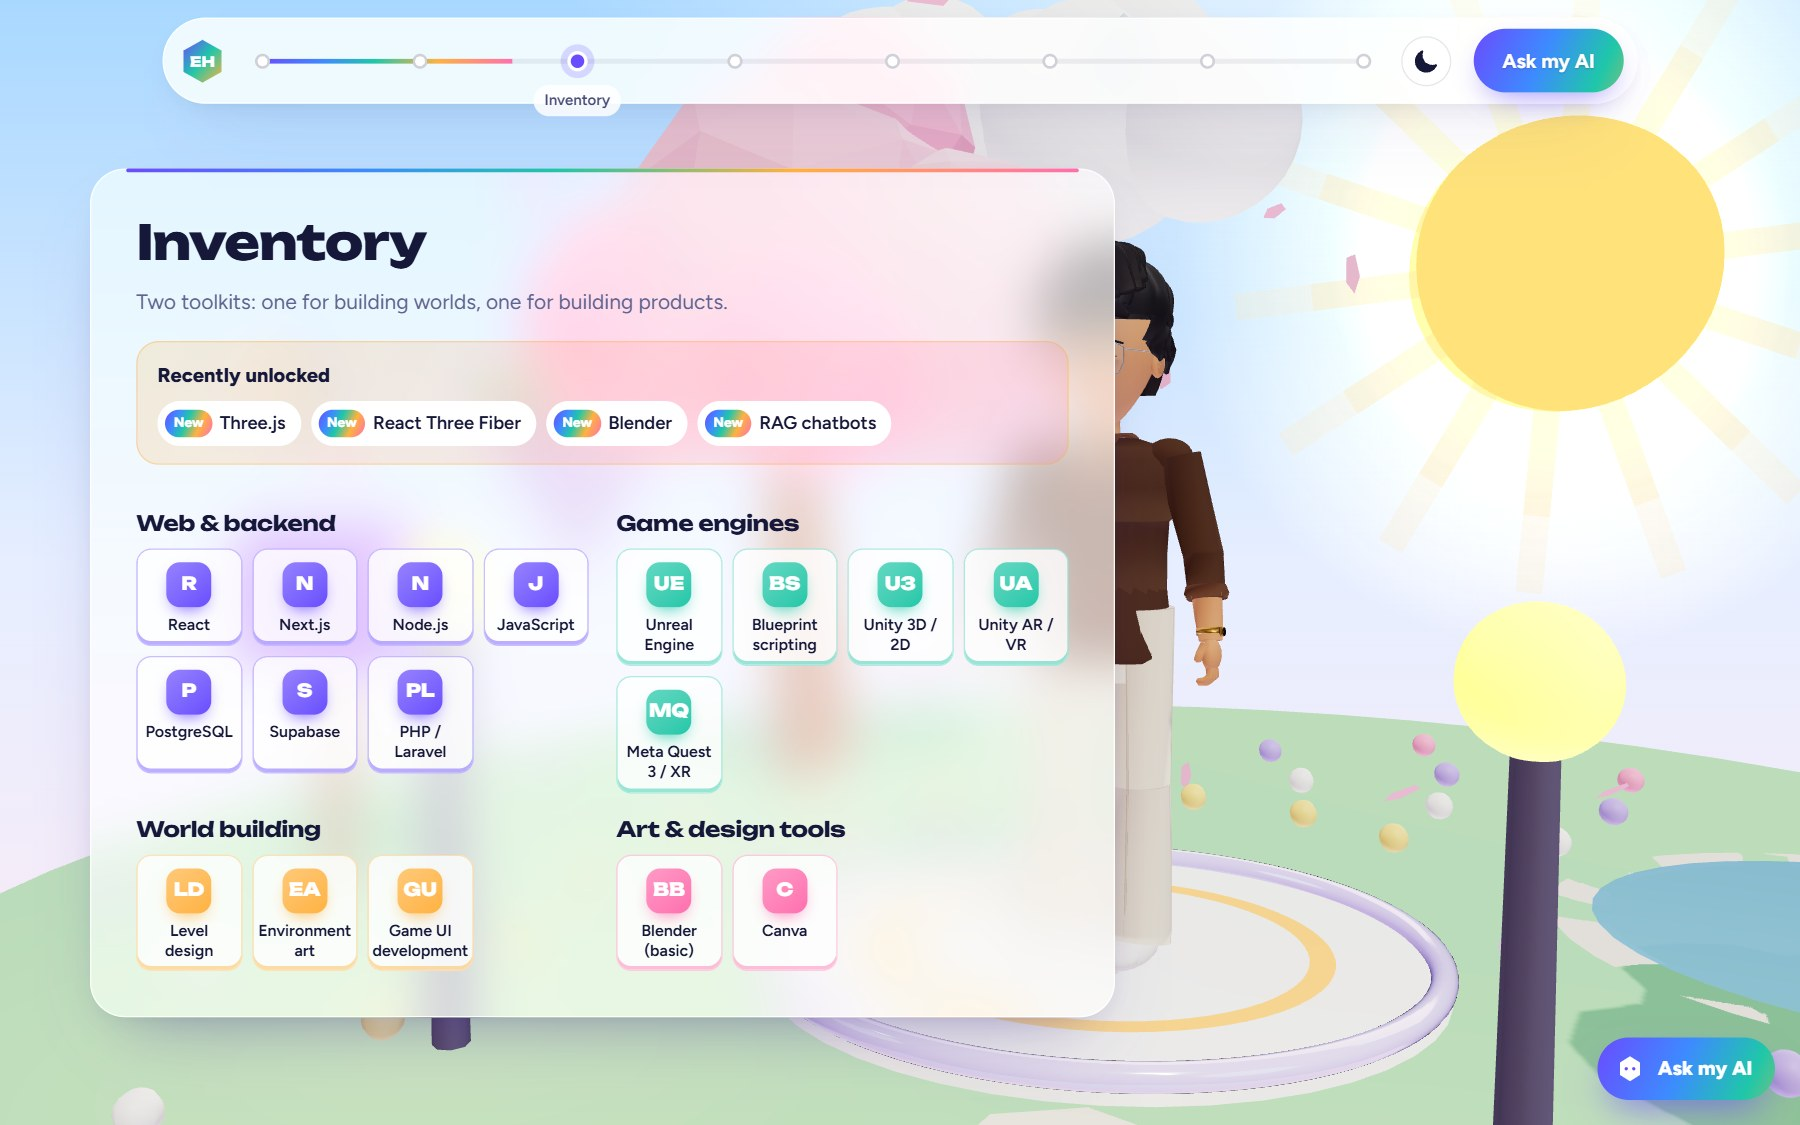
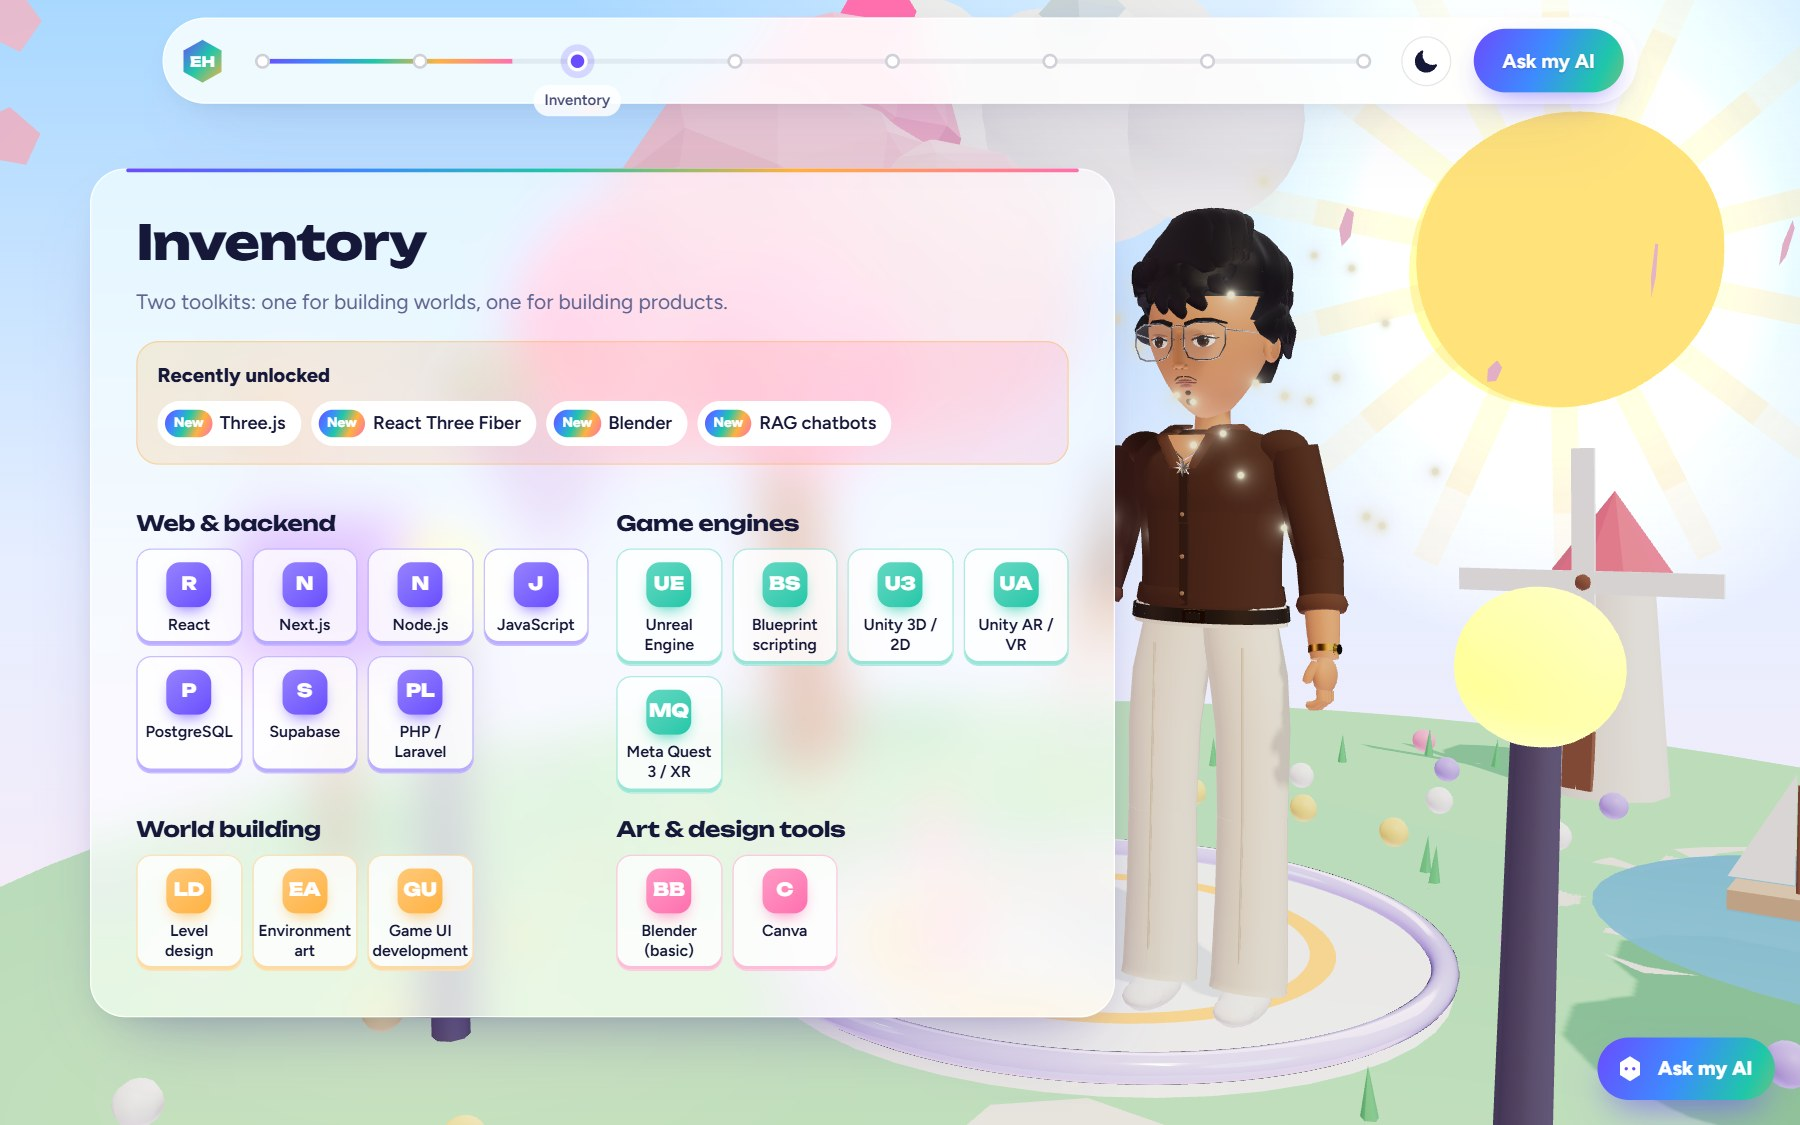
Retake screenshots from the live site and add live links to the README
- Screenshots now show the current avatar, project images, the embedded
  promo video, the chatbot answering with sources, and mobile layouts
- README: live website, backend and repository links

diff --git a/README.md b/README.md
@@ -6,6 +6,16 @@ The whole site plays out on one sunlit floating island built in Three.js. The 3D
 
 Avatar behaviour: idle breathing and random blinks; every 9–15 seconds a random move (glasses push, pendant power-up, level up showing the newest skill); his torso turns toward the page content, leans with scroll speed and glances at project cards you hover; click him for a peace-sign jump and a speech bubble that opens the chat; leave the page alone for 30 seconds and he sits down and falls asleep, then wakes up startled when you move.
 
+## Live demo and links
+
+| | |
+|---|---|
+| Live website | https://ebad-portfolio-47pe.vercel.app |
+| Backend API (Render) | https://ebad-portfolio.onrender.com |
+| GitHub repository | https://github.com/cluchrai/ebad-portfolio |
+
+The backend runs on Render's free tier, so the first chatbot question or contact message after a quiet spell can take up to a minute while it wakes up.
+
 ## Tech stack
 
 | Part | Tools |
@@ -150,16 +160,16 @@ A 60-second game-style tour of the portfolio, in the same look as the site: boot
 
 ## Screenshots
 
-All taken from the built site (`docs/screenshots/`):
+All taken from the live site (`docs/screenshots/`):
 
 | File | Shows |
 |---|---|
 | `01-home-day.jpg`, `02-home-night.jpg` | Module 1: home page in day and night mode |
 | `03-about-character-sheet.jpg` | Module 1: About me |
 | `04-skills-inventory.jpg` | Module 1: skills and technologies |
-| `05-projects-gallery.jpg` | Module 1: projects gallery with filters and search |
+| `05-projects-gallery.jpg` | Module 1: Quest log with project images, filters and search |
 | `06-education-experience.jpg`, `07-trophies.jpg` | Module 1: education, experience and achievements |
-| `08-video-section.jpg` | Module 3: the promo video section (video still to be added) |
+| `08-video-section.jpg` | Module 3: the promo video embedded in the Cutscene section |
 | `09-contact-form.jpg` | Module 5: contact form |
 | `10-chatbot.jpg` | Module 4: RAG chatbot answering with source citations |
 | `11-mobile-home.jpg`, `12-mobile-projects.jpg` | Module 1: responsive mobile layout |
